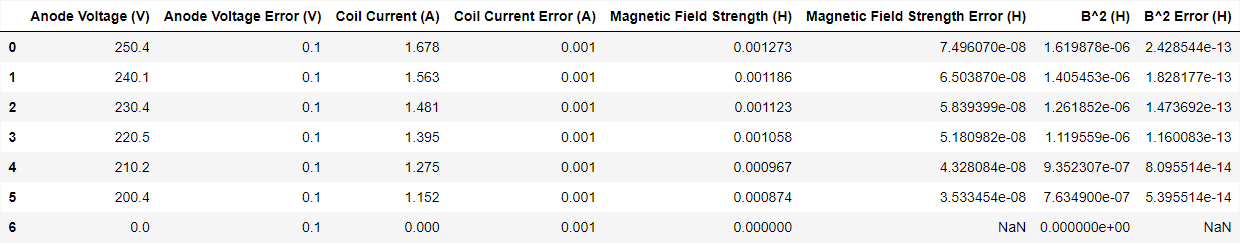
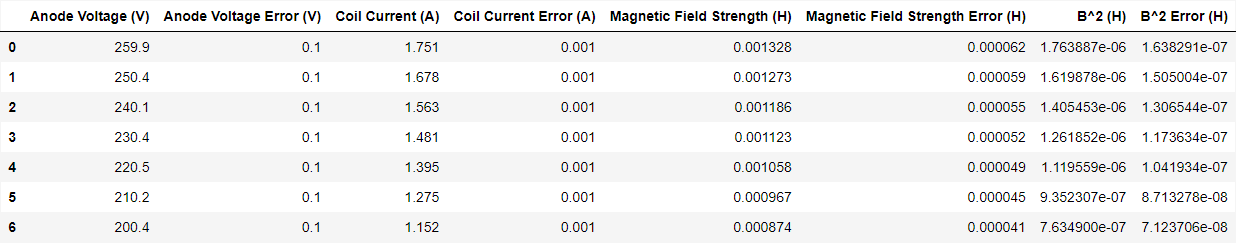
actual errors in here properly lol

diff --git a/e_m_ratio.py b/e_m_ratio.py
@@ -6,12 +6,12 @@ import dataframe_image as dfi
 
 # x is anode voltage V (measured using meter) but aiming for 300, 280, 260, 240, 220, 200
 
-x = np.array([299.9, 290.2, 279.8, 270.5, 259.9, 250.4, 240.1, 230.4, 220.5, 210.2, 200.4, 0])[-7:]
+x = np.array([299.9, 290.2, 279.8, 270.5, 259.9, 250.4, 240.1, 230.4, 220.5, 210.2, 200.4])[-7:] # 0 at end
 x_err = 0.1*np.ones(len(x))
 
 # I is coil current I (measured using meter)
 
-I = np.array([2.370, 2.311, 2.227, 2.028, 1.751, 1.678, 1.563, 1.481, 1.395, 1.275, 1.152, 0])[-7:]
+I = np.array([2.370, 2.311, 2.227, 2.028, 1.751, 1.678, 1.563, 1.481, 1.395, 1.275, 1.152])[-7:] # 0 at end
 I_err = 0.001*np.ones(len(x))
 
 # y is magnetic field B (found from I)
@@ -22,11 +22,34 @@ y = (4e-7*np.pi*124*I/(0.147*(5/4)**(3/2)))**2
 y_err = np.multiply((2*(1.2319e-9 * I**2 )**0.5), y)
 """
 
-B = 4e-7*np.pi*124*I/(0.147*(5/4)**(3/2))
-B_err = np.multiply((5.7529e-13*(I**(-2)) + 1.2319e-9*I**2)**0.5, B)
+B_k = 4e-7*np.pi*124/(0.147*(5/4)**(3/2))
+B = B_k*I
+#B_err = np.multiply((5.7529e-13*(I**(-2)) + 1.2319e-9*I**2)**0.5, B)
+B_err = B_k*(I_err**2*0.147**(-2) + I**2 * 0.001**2 * 0.147**(-4))**0.5
 
 y = B**2
-y_err = 2*B_err*y
+y_err = 2*B_err*B
+
+print("linear regression no errors:")
+
+from scipy.stats import linregress
+
+reg = linregress(x, y)
+
+print(reg.slope, reg.stderr)
+print(reg.intercept, reg.intercept_stderr)
+
+print("custom fit y errors:")
+
+def custom_func(x, m, c):
+    return m*x + c
+
+from scipy.optimize import curve_fit
+
+fit = curve_fit(custom_func, x, y, sigma=y_err)
+
+print(fit[0][0], np.sqrt(np.diag(fit[1]))[0])
+print(fit[0][1], np.sqrt(np.diag(fit[1]))[1])
 
 def linear(p, x):
     m, c = p

diff --git a/e_diffraction.py b/e_diffraction.py
@@ -1,4 +1,3 @@
-from scipy.optimize import curve_fit
 import pandas as pd
 import matplotlib.pyplot as plt
 import numpy as np
@@ -9,18 +8,42 @@ import dataframe_image as dfi
 V = (np.array([3.7, 3.9, 4.1, 4.5, 4.9, 5.2, 5.4, 5.6])*1e3)
 V_err = 0.1e3*np.ones(len(V))
 
-x_err = np.multiply(np.multiply(V_err, 1/V), V**(-0.5))
-x = V**(-0.5)
+#x_err = np.multiply(np.multiply(V_err, 1/V), V**(-0.5))
 
+x = V**(-0.5)
+x_err = abs(-0.5*V**(-1.5)* V_err)
+#x = V
+#x_err = V_err
 
 # y is D_r
 
 y = np.array([1.7, 1.65, 1.6, 1.5, 1.45, 1.4, 1.4, 1.4])*1e-2
 y_err = 0.1*1e-2*np.ones(len(x))
 
+print("linear regression no errors:")
+
+from scipy.stats import linregress
+
+reg = linregress(x, y)
+
+print(reg.slope, reg.stderr)
+print(reg.intercept, reg.intercept_stderr)
+
 def linear(p, x):
     m, c = p
     return m*x + c
+
+print("custom fit y errors:")
+
+def custom_func(x, m, c):
+    return m*x + c
+
+from scipy.optimize import curve_fit
+
+fit = curve_fit(custom_func, x, y, sigma=y_err)
+
+print(fit[0][0], np.sqrt(np.diag(fit[1]))[0])
+print(fit[0][1], np.sqrt(np.diag(fit[1]))[1])
 
 from scipy.odr import Model, RealData, ODR
 
@@ -81,7 +104,12 @@ plt.rcParams.update({
     "font.family": "Helvetica"
 })
 """
-
+"""
+plt.xlim(0, 0.02)
+plt.ylim(0, 0.02)
+ax = plt.gca()
+ax.set_aspect('equal', adjustable='box')
+"""
 
 plt.errorbar(x, y, xerr=x_err, yerr=y_err, linestyle='None', marker='x', label="Measurements")
 plt.plot(x_fit, y_fit, label="Linear Fit")
